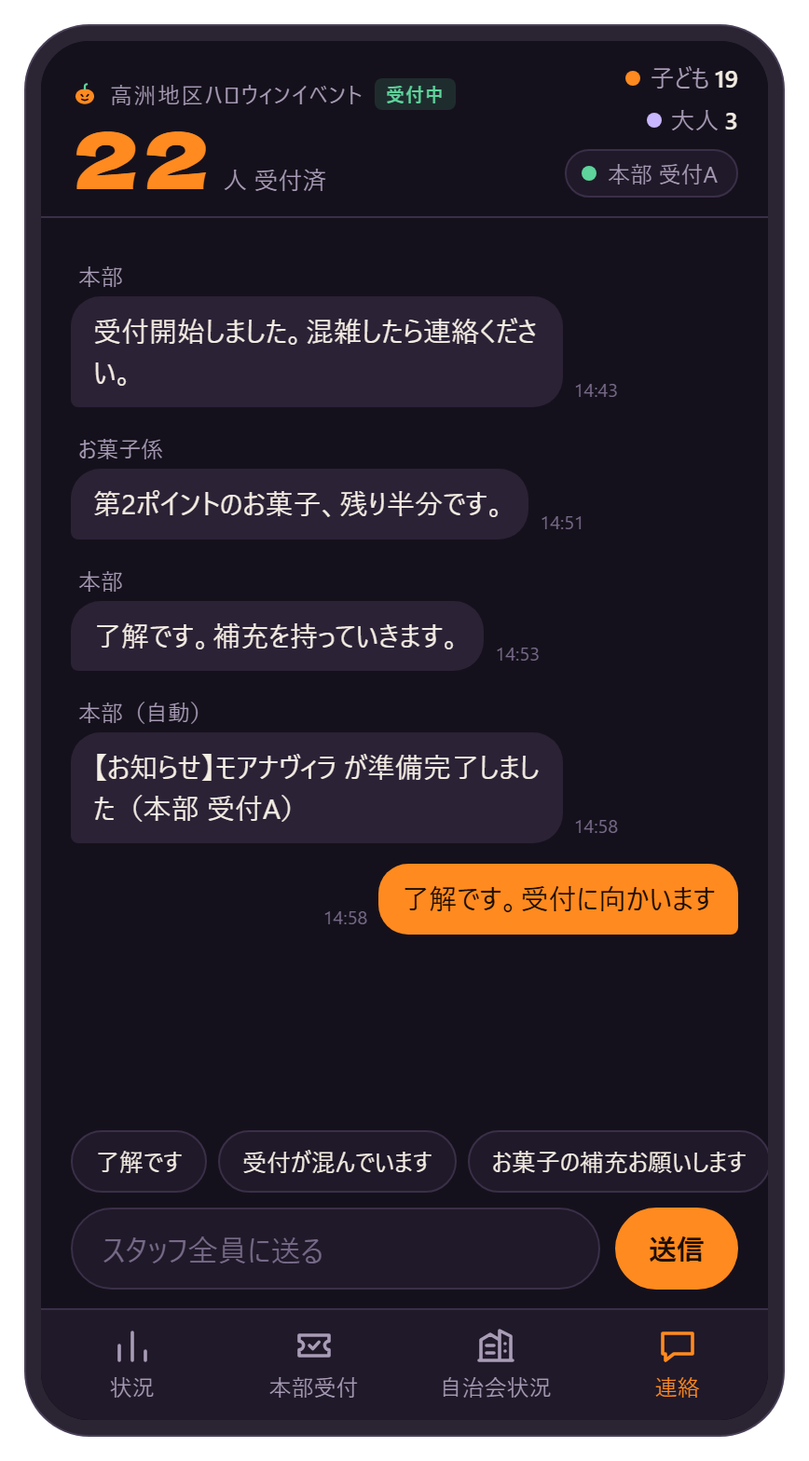
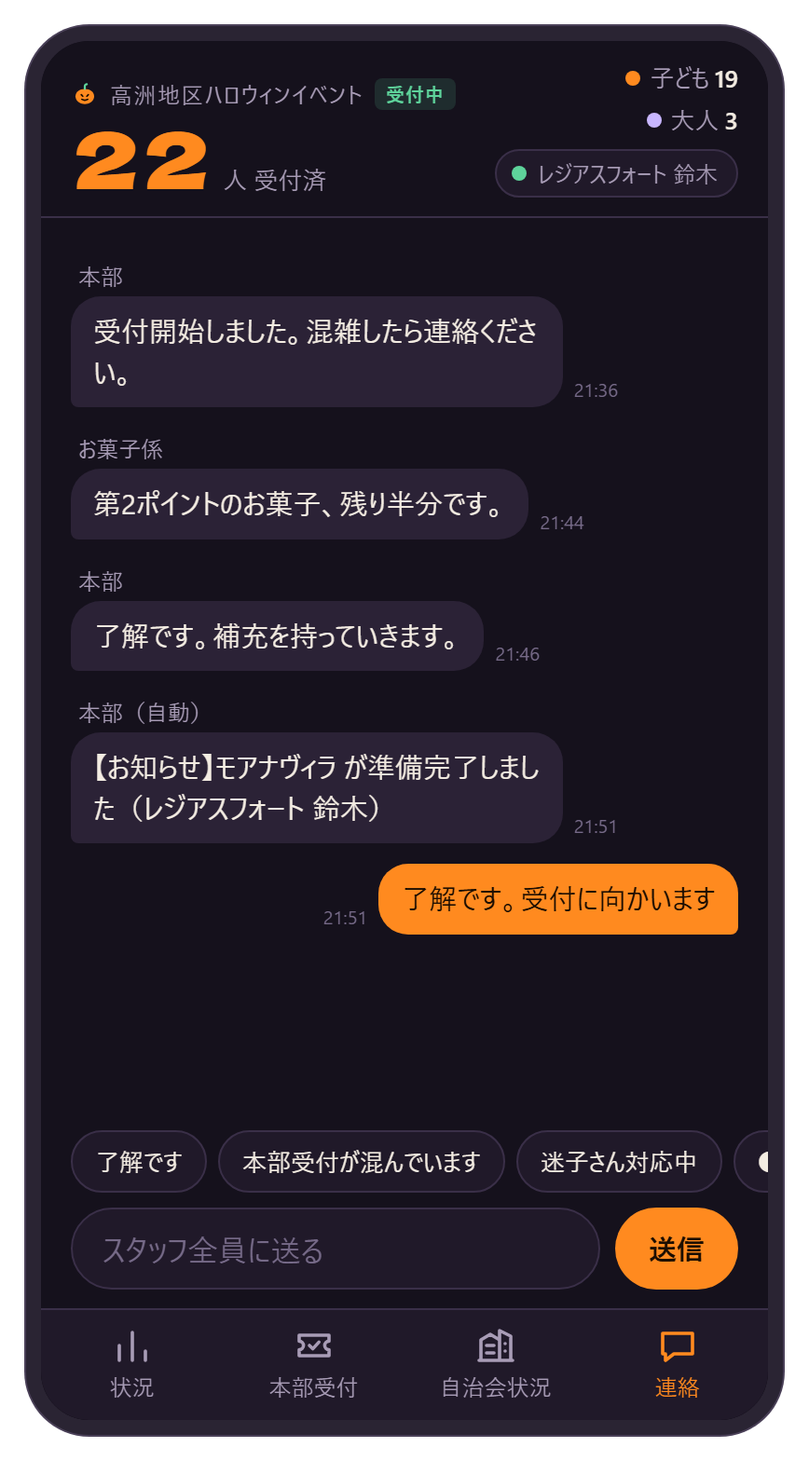
Add files via upload

diff --git a/manual.html b/manual.html
@@ -121,16 +121,29 @@ dl.faq{margin:14px 0}
 footer{margin-top:64px;padding-top:16px;border-top:1px solid var(--line);font-size:13px;color:var(--muted)}
 :focus-visible{outline:2px solid var(--pumpkin);outline-offset:2px}
 
+@page{size:A4;margin:14mm 14mm 16mm}
 @media print{
   :root{color-scheme:light}
-  body{background:#fff;font-size:11pt;padding:0}
-  .cover{background:#fff;color:#000;border-bottom:2px solid #000;padding:0 0 12px;margin:0}
-  .cover h1{color:#000}.cover p,.cover .ev{color:#333}.cover .open{display:none}
-  h2{break-after:avoid;margin-top:28px}
-  .shot,.note,table,.flow li{break-inside:avoid}
-  .shot{grid-template-columns:200px 1fr}
-  .roles{display:none}
+  body{background:#fff;font-size:10.5pt;line-height:1.7;padding:0;-webkit-print-color-adjust:exact;print-color-adjust:exact}
+  .wrap{max-width:none;padding:0}
+  .cover{background:#fff;color:#000;border-bottom:2px solid var(--pumpkin-bg);padding:0 0 12px;margin:0}
+  .cover-in{max-width:none}
+  .cover h1{color:var(--pumpkin)}.cover p,.cover .ev{color:#444}.cover .open{display:none}
+  .print-url{display:block!important}
+  h2{break-after:avoid;margin-top:24px;font-size:17pt}
+  h3{break-after:avoid;font-size:12.5pt}
+  section{break-before:page}
+  section#start{break-before:auto}
+  .shot,.note,.tbl,table,.flow li,.faq dt,.faq dd{break-inside:avoid}
+  .shot{grid-template-columns:52mm 1fr;gap:6px 8mm;margin:10px 0}
+  .shot figure{max-width:none;margin:0}
+  .roles{grid-template-columns:repeat(4,1fr)}
+  .roles a{padding:8px 10px}
+  table{border:1px solid var(--line)}
+  a{color:inherit;text-decoration:none}
+  footer{margin-top:24px}
 }
+.print-url{display:none}
 @media (prefers-reduced-motion: reduce){*{transition:none!important}}
 </style>
 </head>
@@ -144,6 +157,7 @@ footer{margin-top:64px;padding-top:16px;border-top:1px solid var(--line);font-si
       <h1>運営アプリ 取扱説明書</h1>
       <p>運営スタッフ向け｜本部受付・各自治会の担当・主催者</p>
       <a class="open" href="./?openExternalBrowser=1">アプリを開く</a>
+      <p class="print-url">アプリ：https://regiusfort-design.github.io/takasu-halloween/　／　この説明書：…/takasu-halloween/manual.html</p>
     </div>
   </div>
 </header>
@@ -165,7 +179,7 @@ footer{margin-top:64px;padding-top:16px;border-top:1px solid var(--line);font-si
     <a href="#start"><b>全員</b><span>1 はじめて開くとき<br>2 画面の見かた<br>5 連絡</span></a>
     <a href="#hq"><b>本部受付の担当</b><span>3 本部受付（人数を数える）</span></a>
     <a href="#groups"><b>各自治会の担当</b><span>4 自治会状況（準備完了・受付終了）</span></a>
-    <a href="#admin"><b>主催者（本部）</b><span>6 管理メニュー<br>7 当日の流れ</span></a>
+    <a href="#admin"><b>主催者（本部）</b><span>6 管理メニュー（受付・連絡の設定）<br>7 当日の流れ</span></a>
   </nav>
 
   <!-- 1 -->
@@ -173,12 +187,12 @@ footer{margin-top:64px;padding-top:16px;border-top:1px solid var(--line);font-si
     <h2><span class="no">1</span>はじめて開くとき</h2>
     <p class="for">全員</p>
     <div class="shot">
-      <figure><img src="manual-setup.png" alt="名前と合言葉を入れる最初の画面" width="434" height="784" loading="lazy"><figcaption>最初の画面</figcaption></figure>
+      <figure><img src="manual-setup.png" alt="名前と合言葉を入れる最初の画面" width="434" height="784"><figcaption>最初の画面</figcaption></figure>
       <div class="txt">
         <ol>
           <li>LINE で配られた URL をタップします。
             <span class="url">https://regiusfort-design.github.io/takasu-halloween/?openExternalBrowser=1</span></li>
-          <li><b>あなたの名前・係</b> を入れます（例：「本部 受付A」「潮音の街 担当」）。メッセージの送信者名と受付の記録に使います。</li>
+          <li><b>自治会名＋お名前</b> を入れます（例：「潮音の街 山田」「レジアスフォート 鈴木」）。メッセージの送信者名と受付の記録に使います。</li>
           <li><b>合言葉</b> を入れます。合言葉は本部から別に連絡します。</li>
           <li><span class="ui k">はじめる</span> を押します。</li>
         </ol>
@@ -200,7 +214,7 @@ footer{margin-top:64px;padding-top:16px;border-top:1px solid var(--line);font-si
     <h2><span class="no">2</span>画面の見かた</h2>
     <p class="for">全員</p>
     <div class="shot">
-      <figure><img src="manual-status.png" alt="状況タブの画面" width="434" height="784" loading="lazy"><figcaption>状況タブ</figcaption></figure>
+      <figure><img src="manual-status.png" alt="状況タブの画面" width="434" height="784"><figcaption>状況タブ</figcaption></figure>
       <div class="txt">
         <h3 style="margin-top:0">画面のいちばん上（どのタブでも表示）</h3>
         <ul>
@@ -224,7 +238,7 @@ footer{margin-top:64px;padding-top:16px;border-top:1px solid var(--line);font-si
     <h2><span class="no">3</span>本部受付（人数を数える）</h2>
     <p class="for">本部（高洲中央公園）の受付担当</p>
     <div class="shot">
-      <figure><img src="manual-reception.png" alt="本部受付タブの画面" width="434" height="784" loading="lazy"><figcaption>本部受付タブ</figcaption></figure>
+      <figure><img src="manual-reception.png" alt="本部受付タブの画面" width="434" height="784"><figcaption>本部受付タブ</figcaption></figure>
       <div class="txt">
         <ol>
           <li>下の <b>本部受付</b> タブを開きます。</li>
@@ -250,7 +264,7 @@ footer{margin-top:64px;padding-top:16px;border-top:1px solid var(--line);font-si
 
     <h3>まちがえて押したとき</h3>
     <div class="shot">
-      <figure><img src="manual-minus.png" alt="人数を減らすモードの画面" width="434" height="784" loading="lazy"><figcaption>人数を減らすモード</figcaption></figure>
+      <figure><img src="manual-minus.png" alt="人数を減らすモードの画面" width="434" height="784"><figcaption>人数を減らすモード</figcaption></figure>
       <div class="txt">
         <ol>
           <li>画面下の <span class="ui line">まちがえた人数を減らす</span> を押します。</li>
@@ -272,7 +286,7 @@ footer{margin-top:64px;padding-top:16px;border-top:1px solid var(--line);font-si
     <h2><span class="no">4</span>自治会状況（準備完了・受付終了）</h2>
     <p class="for">各自治会の担当</p>
     <div class="shot">
-      <figure><img src="manual-groups.png" alt="自治会状況タブの画面" width="434" height="784" loading="lazy"><figcaption>自治会状況タブ</figcaption></figure>
+      <figure><img src="manual-groups.png" alt="自治会状況タブの画面" width="434" height="784"><figcaption>自治会状況タブ</figcaption></figure>
       <div class="txt">
         <ol>
           <li>下の <b>自治会状況</b> タブを開き、自分の自治会の行を探します。</li>
@@ -295,16 +309,27 @@ footer{margin-top:64px;padding-top:16px;border-top:1px solid var(--line);font-si
     <h2><span class="no">5</span>連絡（メッセージ）</h2>
     <p class="for">全員</p>
     <div class="shot">
-      <figure><img src="manual-chat.png" alt="連絡タブの画面" width="434" height="784" loading="lazy"><figcaption>連絡タブ</figcaption></figure>
+      <figure><img src="manual-chat.png" alt="連絡タブの画面" width="434" height="784"><figcaption>連絡タブ</figcaption></figure>
       <div class="txt">
         <ul>
           <li>ここに書いたメッセージは、<b>スタッフ全員</b>に届きます。</li>
           <li>自分のメッセージは右側（オレンジ）、ほかの人のメッセージは左側に名前つきで表示されます。</li>
-          <li>入力欄の上のボタン（「了解です」「お菓子の補充お願いします」など）を押すと、よく使う文が入ります。そのあと <span class="ui k">送信</span> を押します。</li>
+          <li>入力欄の上のボタンを押すと、よく使う文が入ります。そのあと <span class="ui k">送信</span> を押します。
+            <br>「了解です」「本部受付が混んでいます」「迷子さん対応中」「●●自治会　本部へきてください」
+            <br>「●●自治会」の文は、●● の部分が選ばれた状態で入るので、そのまま自治会名を入力してください。</li>
           <li>ほかのタブを見ているときに新しいメッセージが来ると、画面の上にお知らせが出ます。「連絡」タブの赤い数字は未読の数です。</li>
           <li>送れなかったメッセージは「送信できませんでした。タップで再送」と出ます。タップすると送り直します。</li>
         </ul>
         <p>1通は300文字までです。</p>
+      </div>
+    </div>
+
+    <h3>LINE で連絡する日は</h3>
+    <div class="shot">
+      <figure><img src="manual-chatoff.png" alt="連絡タブを使用しないときの画面" width="434" height="784"><figcaption>連絡タブ（使用しないとき）</figcaption></figure>
+      <div class="txt">
+        <p>連絡をこのアプリで行うか、LINE で行うかは当日に本部が決めます。LINE で行う場合は、連絡タブに <b>「高洲ハロウィンLINEを使用してください」</b> と表示され、このアプリではメッセージを送れません。</p>
+        <p>その場合は、ふだんどおり <b>高洲ハロウィンLINE</b> で連絡してください。受付人数の共有（状況・本部受付・自治会状況タブ）は、これまでどおりアプリで行います。</p>
       </div>
     </div>
   </section>
@@ -316,7 +341,7 @@ footer{margin-top:64px;padding-top:16px;border-top:1px solid var(--line);font-si
     <p class="lead">「状況」タブの一番下にある <span class="ui line">管理メニュー</span> を押し、<b>管理パスワード</b>を入れて開きます。管理パスワードは主催者だけが知っているもので、この説明書には書いていません。10分以内に10回まちがえると、しばらく使えなくなります。</p>
 
     <div class="shot">
-      <figure><img src="manual-admin.png" alt="管理メニューの画面（本部の受付）" width="434" height="784" loading="lazy"><figcaption>管理メニュー（上）</figcaption></figure>
+      <figure><img src="manual-admin.png" alt="管理メニューの画面（本部の受付）" width="434" height="784"><figcaption>管理メニュー（上）</figcaption></figure>
       <div class="txt">
         <h3 style="margin-top:0">本部（高洲中央公園）の受付</h3>
         <ul>
@@ -326,11 +351,17 @@ footer{margin-top:64px;padding-top:16px;border-top:1px solid var(--line);font-si
         </ul>
         <p>開始・終了・再開をすると、「連絡」タブに全員へお知らせが届きます。終了を押した直後（2分以内）に届いた受付は、通信の遅れとして記録されます。</p>
         <p>受付前・受付終了のときは、「本部受付」タブの上に出る「本部用：開始する／再開する」からも管理メニューを開けます。</p>
+        <h3>連絡（メッセージ）</h3>
+        <ul>
+          <li><span class="ui end">使用しない（LINEにする）</span>：全員の連絡タブに「高洲ハロウィンLINEを使用してください」と表示され、アプリではメッセージを送れなくなります。</li>
+          <li><span class="ui k">このアプリの連絡を使用する</span>：連絡タブでメッセージを送れるように戻します。</li>
+        </ul>
+        <p>当日、連絡をアプリと LINE のどちらで行うか決めたら、ここで切り替えてください。最初は「使用する」になっています。</p>
       </div>
     </div>
 
     <div class="shot">
-      <figure><img src="manual-clear.png" alt="管理メニューの画面（CSV保存とデータクリア）" width="434" height="784" loading="lazy"><figcaption>管理メニュー（下）</figcaption></figure>
+      <figure><img src="manual-clear.png" alt="管理メニューの画面（CSV保存とデータクリア）" width="434" height="784"><figcaption>管理メニュー（下）</figcaption></figure>
       <div class="txt">
         <h3 style="margin-top:0">CSV で保存</h3>
         <p>「自治会別の集計」「受付ログ（全件）」「メッセージ」を、それぞれ Excel で開けるファイルに保存します。自治会別の集計には、本部の受付開始・終了時刻と、各自治会の準備完了・受付終了時刻も入ります。</p>
@@ -354,8 +385,9 @@ footer{margin-top:64px;padding-top:16px;border-top:1px solid var(--line);font-si
     <p class="for">主催者（本部）・全員</p>
     <ol class="flow">
       <li><b>リハーサルのあと、練習データを消す</b><span class="who">主催者：管理メニュー →「全データをクリア」</span></li>
-      <li><b>スタッフ全員がアプリを開き、名前と合言葉を入れる</b><span class="who">全員</span></li>
+      <li><b>スタッフ全員がアプリを開き、自治会名＋お名前と合言葉を入れる</b><span class="who">全員</span></li>
       <li><b>各自治会の準備ができたら「準備完了」</b><span class="who">各自治会の担当：自治会状況タブ</span></li>
+      <li><b>連絡をアプリで行うか、LINE で行うかを決める</b><span class="who">主催者：LINE にする場合は 管理メニュー →「使用しない（LINEにする）」</span></li>
       <li><b>本部の受付を開始する</b><span class="who">主催者：管理メニュー →「受付を開始する」</span></li>
       <li><b>来た人を自治会別に数える</b><span class="who">本部受付の担当：本部受付タブ／連絡は連絡タブで</span></li>
       <li><b>本部の受付を終了する</b><span class="who">主催者：管理メニュー →「受付を終了する…」</span></li>

diff --git a/index.html b/index.html
@@ -176,6 +176,10 @@ h2{font-size:12px;color:var(--muted);letter-spacing:.1em;font-weight:600;margin:
 .note{font-size:12px;color:var(--faint);margin:18px 0 0}
 
 /* 連絡（チャット） */
+.chatoff{flex:1;display:flex;flex-direction:column;align-items:center;justify-content:center;gap:12px;text-align:center;padding:24px 20px}
+.chatoff svg{width:48px;height:48px;fill:none;stroke:var(--muted);stroke-width:1.6;stroke-linecap:round;stroke-linejoin:round}
+.chatoff b{font-size:20px;line-height:1.5;color:var(--text);text-wrap:balance}
+.chatoff p{margin:0;font-size:13px;color:var(--muted);line-height:1.6}
 .msgs{flex:1;min-height:0;overflow-y:auto;padding:12px 16px;display:flex;flex-direction:column;gap:3px}
 .msg{display:flex;flex-direction:column;max-width:82%;align-self:flex-start}
 .msg.mine{align-self:flex-end;align-items:flex-end}
@@ -250,7 +254,7 @@ h2{font-size:12px;color:var(--muted);letter-spacing:.1em;font-weight:600;margin:
 .phase-now{display:flex;align-items:center;gap:8px;font-size:14px;margin:0 0 10px}
 .phase-now .phase{font-size:12px}
 .phase-now small{color:var(--muted);font-size:12px}
-#phaseBtn{width:100%;margin-top:0}
+#phaseBtn,#chatBtn{width:100%;margin-top:0}
 .grp-ctl .gr{display:flex;align-items:center;justify-content:space-between;gap:10px;padding:8px 0;border-bottom:1px solid var(--line);font-size:14px}
 .grp-ctl .gr small{display:block;color:var(--muted);font-size:11px}
 .grp-ctl .gr.is-closed small{color:var(--bad)}
@@ -324,6 +328,11 @@ h2{font-size:12px;color:var(--muted);letter-spacing:.1em;font-weight:600;margin:
     </section>
 
     <section id="v-chat" class="view" aria-label="連絡" hidden>
+      <div id="chatOff" class="chatoff" hidden>
+        <svg viewBox="0 0 24 24" aria-hidden="true"><path d="M4 5.5h16v11H10l-4.5 3.5v-3.5H4z"/></svg>
+        <b id="chatOffText">高洲ハロウィンLINEを使用してください</b>
+        <p>今回、このアプリの連絡（メッセージ）は使用していません。</p>
+      </div>
       <div id="msgList" class="msgs"></div>
       <div id="chips" class="chips"></div>
       <form id="composer" class="composer" autocomplete="off">
@@ -348,8 +357,8 @@ h2{font-size:12px;color:var(--muted);letter-spacing:.1em;font-weight:600;margin:
   <form id="setupForm" class="setup-card" autocomplete="off">
     <div class="ev">高洲地区ハロウィンイベント</div>
     <h1>運営アプリ</h1>
-    <label for="nameIn">あなたの名前・係</label>
-    <input id="nameIn" maxlength="20" placeholder="例：受付 山田">
+    <label for="nameIn">自治会名＋お名前</label>
+    <input id="nameIn" maxlength="20" placeholder="例：潮音の街 山田">
     <p class="help">メッセージの送信者名と、受付の記録に使います。</p>
     <div id="passWrap" style="display:flex;flex-direction:column;gap:8px">
       <label for="passIn">合言葉</label>
@@ -390,6 +399,11 @@ h2{font-size:12px;color:var(--muted);letter-spacing:.1em;font-weight:600;margin:
 
       <p class="help" style="margin:8px 0 0">自治会ごとの準備完了・受付終了は、「自治会状況」タブで行います。</p>
 
+      <h2>連絡（メッセージ）</h2>
+      <div class="phase-now">いまの設定 <span id="admChat" class="phase"></span></div>
+      <button id="chatBtn" class="primary" type="button">このアプリの連絡を使用する</button>
+      <p class="help" style="margin:8px 0 0" id="chatHelp"></p>
+
       <h2>CSVで保存</h2>
       <div class="adm-list">
         <button class="adm-btn" type="button" data-kind="summary">自治会別の集計<small>自治会ごとの子ども・大人・合計</small></button>
@@ -428,7 +442,8 @@ const HAS_GAS = !!(window.google && google.script && google.script.run);
 // デモモードはパソコンで index.html を直接開いたときだけ。本番では絶対に使わない
 const DEMO = !HAS_GAS && !API_URL && /^(file|data):$/.test(location.protocol);
 const TYPE_LABEL = { k: '子ども', a: '大人' };
-const QUICK = ['了解です', '受付が混んでいます', 'お菓子の補充お願いします', '迷子の対応中です', '本部に来てください'];
+// 連絡タブの定型文（●● は入力欄に入れたあと選択状態にするので、そのまま自治会名を打てる）
+const QUICK = ['了解です', '本部受付が混んでいます', '迷子さん対応中', '●●自治会　本部へきてください'];
 
 // ---------- 端末内の保存（この端末だけ） ----------
 const store = {
@@ -542,6 +557,17 @@ function applyState(st) {
   if (!st || !st.counts) return;
   checkEpoch(st.epoch);
   if (st.ver >= S.server.ver) { S.server = st; S.gotState = true; }
+}
+
+// ---------- 連絡（メッセージ）を使用するか（管理メニューで切り替え） ----------
+function chatOn() { return !(S.server.settings && S.server.settings.chat === false); }
+const chatOffText = () => (S.cfg && S.cfg.chatOffText) || '高洲ハロウィンLINEを使用してください';
+function renderChatMode() {
+  const on = chatOn();
+  $('#chatOff').hidden = on;
+  $('#chatOffText').textContent = chatOffText();
+  $('#msgList').hidden = $('#chips').hidden = $('#composer').hidden = !on;
+  if (!on) $('#banner').hidden = true;
 }
 
 // ---------- 受付の開始・終了 ----------
@@ -846,7 +872,7 @@ function renderCounts(fromTap) {
     b.iK.style.width = (v.k / max * 100) + '%';
     b.iA.style.width = (v.a / max * 100) + '%';
   });
-  renderFeed(); renderDock(); renderRecv(); renderGroupList(); renderAdminRecv();
+  renderFeed(); renderDock(); renderRecv(); renderGroupList(); renderChatMode(); renderBadge(); renderAdminRecv();
 }
 
 function renderFeed() {
@@ -884,7 +910,7 @@ function addMsgs(list) {
   if (!changed) return;
   S.msgs.sort((a, b) => a.seq - b.seq);
   if (S.tab === 'chat' && !document.hidden) markSeen();
-  else if (latest) showBanner(latest);
+  else if (latest && chatOn()) showBanner(latest);
   renderChat(); renderBadge();
 }
 
@@ -922,7 +948,7 @@ function renderChat(forceBottom) {
 function unreadCount() { return S.msgs.filter(m => m.seq > S.seenSeq && m.dev !== S.dev).length; }
 function renderBadge() {
   const n = unreadCount(), b = $('#badge');
-  b.hidden = !n || S.tab === 'chat';
+  b.hidden = !n || S.tab === 'chat' || !chatOn();
   b.textContent = n > 99 ? '99+' : n;
 }
 function markSeen() { S.seenSeq = S.lastSeq; store.set('seenSeq', S.seenSeq); renderBadge(); }
@@ -982,7 +1008,7 @@ function closeAdmin() { $('#admin').hidden = true; }
 function renderAdminRecv() {
   if ($('#admin').hidden || $('#admBody').hidden) return;
   const r = recvInfo() || { phase: 'before', groupsClosed: {} };
-  const sig = JSON.stringify(r) + '|' + !!S.admBusy + '|' + !$('#closeConfirm').hidden;
+  const sig = JSON.stringify(r) + '|' + chatOn() + '|' + !!S.admBusy + '|' + !$('#closeConfirm').hidden;
   if (S.admSig === sig) return; // 3秒ごとの更新で作り直すと押しにくいので、変化したときだけ描き直す
   S.admSig = sig;
   const ph = $('#admPhase');
@@ -995,6 +1021,34 @@ function renderAdminRecv() {
   btn.hidden = !$('#closeConfirm').hidden;
   if (r.phase === 'open') { btn.className = 'danger-outline'; btn.textContent = '受付を終了する…'; }
   else { btn.className = 'primary'; btn.textContent = r.phase === 'closed' ? '受付を再開する' : '受付を開始する'; }
+
+  // 連絡（メッセージ）の使用・不使用
+  const on = chatOn(), ac = $('#admChat'), cb = $('#chatBtn');
+  ac.className = 'phase ' + (on ? 'open' : 'closed');
+  ac.textContent = on ? '使用する' : '使用しない（LINE）';
+  cb.disabled = !!S.admBusy;
+  cb.className = on ? 'danger-outline' : 'primary';
+  cb.textContent = on ? '使用しない（LINEにする）' : 'このアプリの連絡を使用する';
+  $('#chatHelp').textContent = on
+    ? '使用しないにすると、全員の連絡タブに「' + chatOffText() + '」と表示され、メッセージを送れなくなります。'
+    : 'いまは全員の連絡タブに「' + chatOffText() + '」と表示されています。';
+}
+
+async function setChat(on) {
+  const err = $('#admErr');
+  err.hidden = true;
+  S.admBusy = true; renderAdminRecv();
+  try {
+    const st = await call('adminSetting', auth(), S.adminPass, 'chat', on);
+    applyState(st);
+    toast(on ? '連絡タブを使用するにしました' : '連絡タブを使用しない（LINE）にしました');
+  } catch (e) {
+    if (isApp(e) && /管理パスワード/.test(msgOf(e))) S.adminPass = null;
+    admError(e, err);
+  } finally {
+    S.admBusy = false;
+    renderCounts();
+  }
 }
 
 // 受付画面：自治会ごとの終了・再開（管理パスワード不要）
@@ -1229,6 +1283,7 @@ async function boot() {
   $('#phaseBtn').addEventListener('click', onPhaseBtn);
   $('#closeNo').addEventListener('click', () => { $('#closeConfirm').hidden = true; renderAdminRecv(); });
   $('#closeYes').addEventListener('click', () => recvAction('close'));
+  $('#chatBtn').addEventListener('click', () => setChat(!chatOn()));
   $('#meBtn').addEventListener('click', () => showSetup());
   $('#banner').addEventListener('click', () => setTab('chat'));
   $('#setupForm').addEventListener('submit', onSetup);
@@ -1246,7 +1301,14 @@ async function boot() {
   const chips = $('#chips');
   QUICK.forEach(q => {
     const c = h('button', { class: 'chip', type: 'button', text: q });
-    c.addEventListener('click', () => { const i = $('#msgInput'); i.value = i.value ? i.value + ' ' + q : q; i.focus(); });
+    c.addEventListener('click', () => {
+      const i = $('#msgInput');
+      const start = i.value ? i.value.length + 1 : 0;
+      i.value = i.value ? i.value + ' ' + q : q;
+      i.focus();
+      const p = q.indexOf('●●');
+      if (p >= 0) { try { i.setSelectionRange(start + p, start + p + 2); } catch (e) {} }
+    });
     chips.append(c);
   });
   setInterval(renderNet, 2000);
@@ -1301,15 +1363,16 @@ const Mock = (function () {
     db.rows.forEach(r => { if (counts[r.g]) counts[r.g][r.t] += r.n; });
     if (!db.recv) db.recv = { phase: 'open', openedAt: Date.now() - 20 * 60000, closedAt: null, groupsReady: {}, groupsClosed: {} };
     db.recv.groupsReady = db.recv.groupsReady || {};
-    return { ver: db.ver, epoch: db.epoch || '0', recv: db.recv, counts, recent: db.rows.slice(-15) };
+    return { ver: db.ver, epoch: db.epoch || '0', recv: db.recv, settings: { chat: chatOk() }, counts, recent: db.rows.slice(-15) };
   }
   const accepts = g => db.recv && db.recv.phase === 'open';
+  const chatOk = () => !(db.settings && db.settings.chat === false);
   // デモモードの管理パスワードは admin
   const admin = p => { if (p !== 'admin') throw new Error('[APP] 管理パスワードが違います（デモは admin）'); };
   const fmt = ts => { const d = new Date(ts); return d.toLocaleDateString('ja-JP') + ' ' + d.toLocaleTimeString('ja-JP'); };
   const bump = () => { db.ver = Math.max(Date.now(), db.ver + 1); };
   return {
-    async getConfig() { await wait(); return { eventName: '高洲地区ハロウィンイベント', hqName: '本部（高洲中央公園）', needPass: false, groups: GROUPS }; },
+    async getConfig() { await wait(); return { eventName: '高洲地区ハロウィンイベント', hqName: '本部（高洲中央公園）', chatOffText: '高洲ハロウィンLINEを使用してください', needPass: false, groups: GROUPS }; },
     async sync(a, last) { await wait(); db = store.get('demo_db', db); return { state: state(), epoch: db.epoch || '0', msgs: db.msgs.filter(m => m.seq > last) }; },
     async record(a, items) {
       await wait();
@@ -1331,6 +1394,7 @@ const Mock = (function () {
     },
     async postMessage(a, text, cid) {
       await wait();
+      if (!chatOk()) throw new Error('[APP] このアプリの連絡は使用していません。高洲ハロウィンLINEを使用してください');
       const m = { seq: db.msgs.length + 1, ts: Date.now(), name: a.name, text, dev: a.dev, cid };
       db.msgs.push(m); persist(); return { msg: m };
     },
@@ -1357,6 +1421,11 @@ const Mock = (function () {
       if (kind === 'all' || kind === 'messages') db.msgs = [];
       if (kind === 'all' || kind === 'status') db.recv = { phase: 'before', openedAt: null, closedAt: null, groupsReady: {}, groupsClosed: {} };
       if (kind !== 'status') db.epoch = String(Date.now());
+      bump(); persist(); return state();
+    },
+    async adminSetting(a, p, key, value) {
+      await wait(); admin(p);
+      db.settings = Object.assign({}, db.settings, { chat: !!value });
       bump(); persist(); return state();
     },
     async groupReception(a, action, g) {
